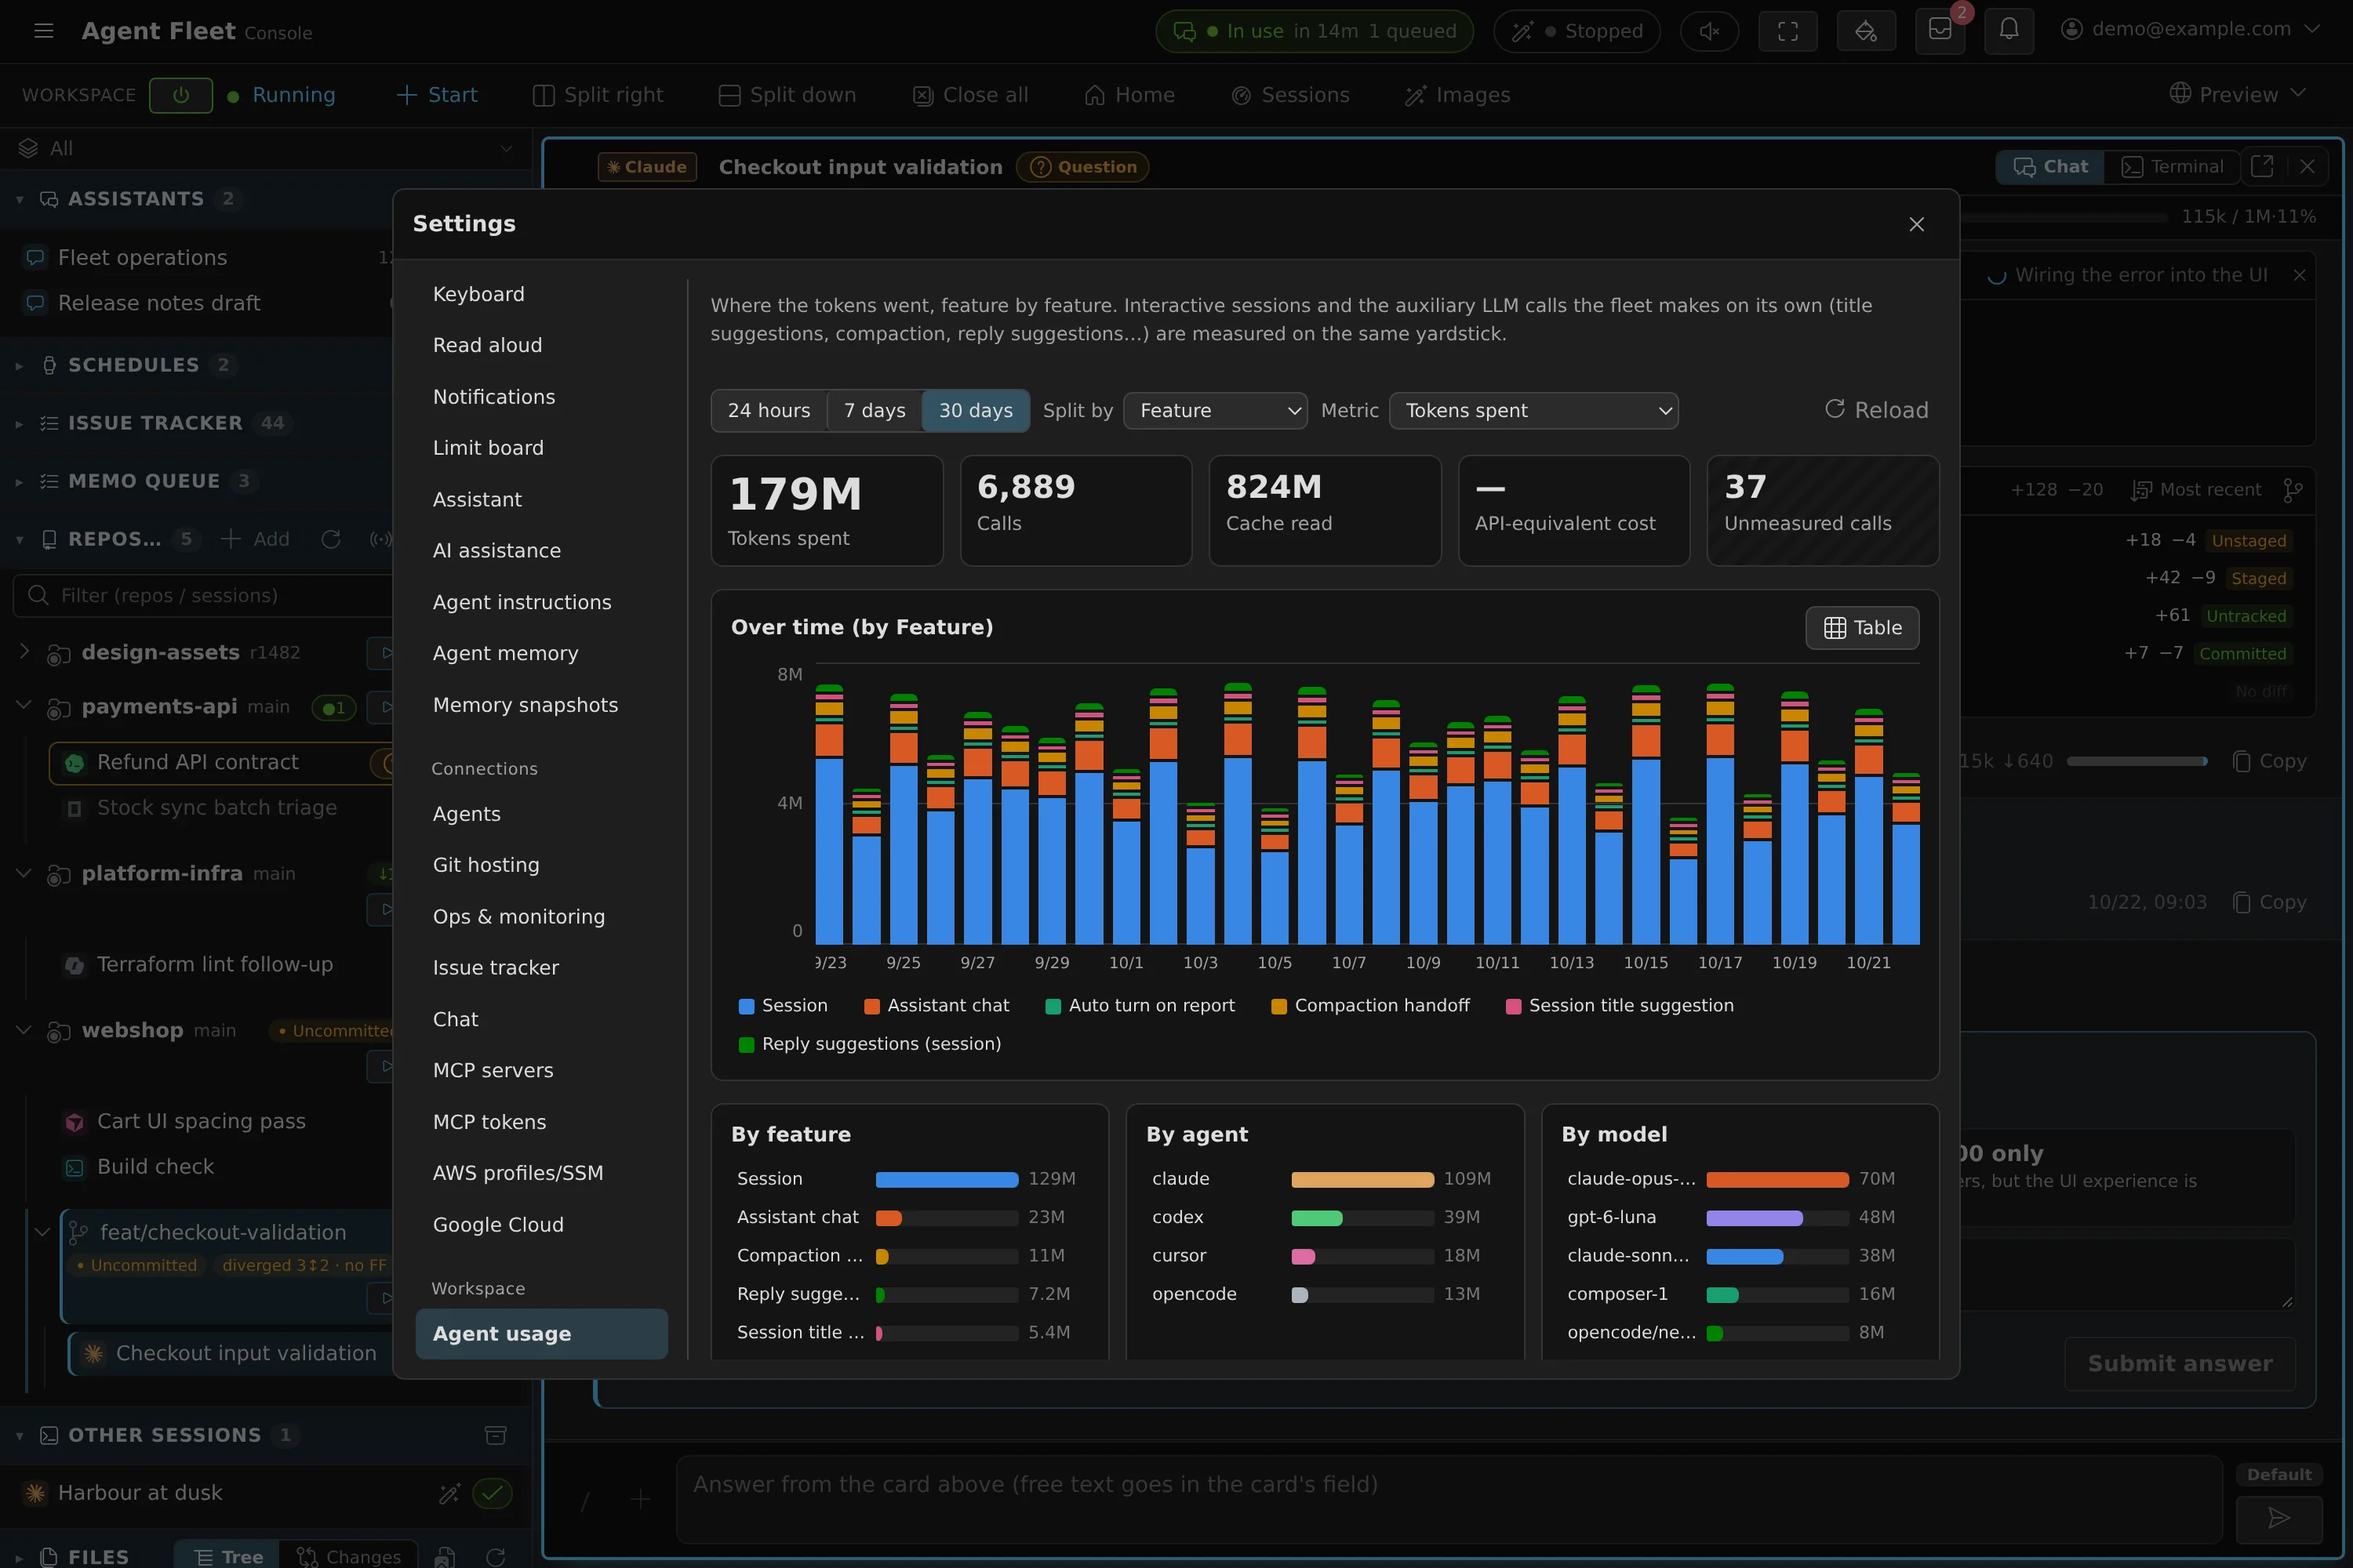
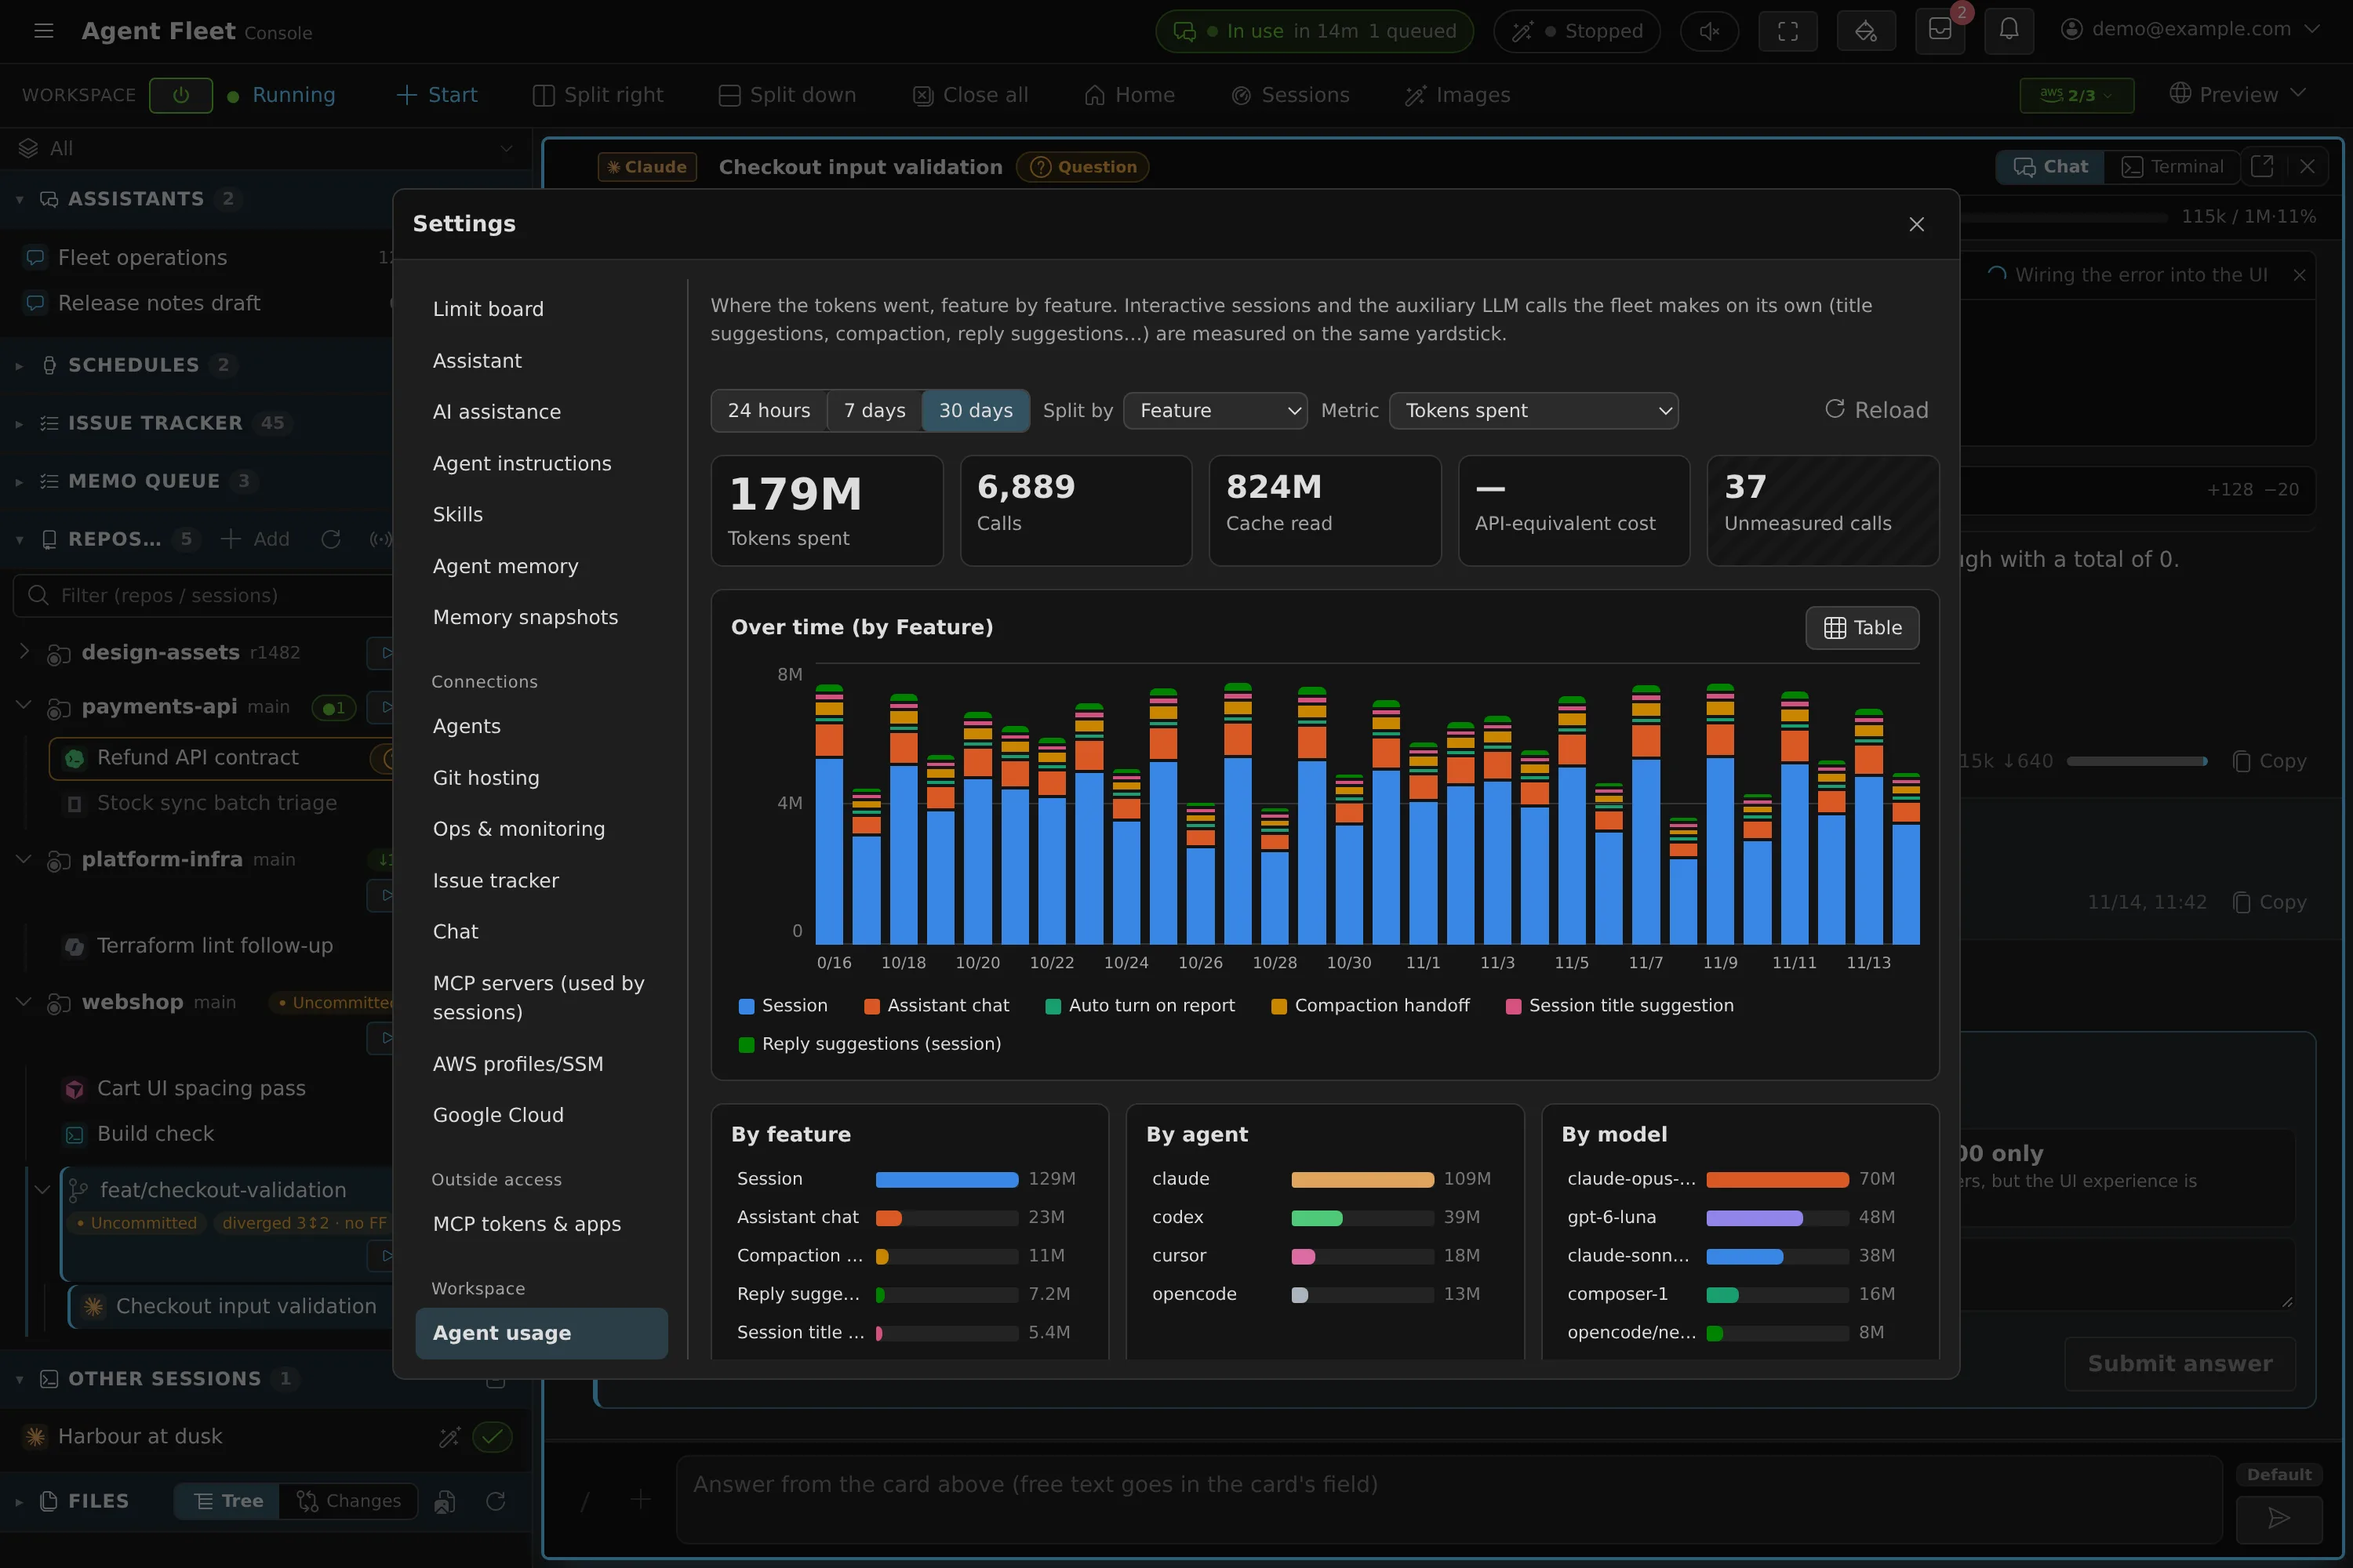
fix(console): switch the README usage shot to 30 days by data attribute
Root cause: the README scene `usage` (docs/img/usage-*.webp) clicked
the range button matching /^(30日|30 days)$/. The ja label is "30 日"
with a space, so the click never happened in ja and the committed
usage-ja.webp shows the 7-day view, while README.ja.md's alt text says
30 days. This is the shot #4119 describes; the guide's agents-usage
shots were already on 30 days.

Fix: same as agents-usage - wait for
.usage-controls button[data-range-hours="720"], click it, and `verify`
that it is aria-pressed so a miss fails the run. Regenerated
docs/img/usage-{ja,en}.webp (dark, the scene's default).

Verified: capture.mjs --only usage in ja and en exited 0; both images
show the 30-day preset pressed with 30 daily bars (looked at both).
The alt text in README.md, README.ja.md and the dist-repo READMEs
("over 30 days" / "30 日") now matches. docs-check and pre-commit clean.

diff --git a/console/scripts/shots/README.md b/console/scripts/shots/README.md
@@ -32,7 +32,7 @@ node console/scripts/shots/capture.mjs --locale en
 - A scene whose `action` switches the UI into a state sets `verify`: an expression checked once
   after `settle`. An action that misses its target does nothing and still yields a plausible
   picture of the default state, so the run fails instead of writing it. Select the target by a
-  `data-*` attribute rather than its label (`agents-usage` clicks `data-range-hours="720"`).
+  `data-*` attribute rather than its label (`usage` and `agents-usage` click `data-range-hours="720"`).
 
 ## Rules for the fixtures
 
